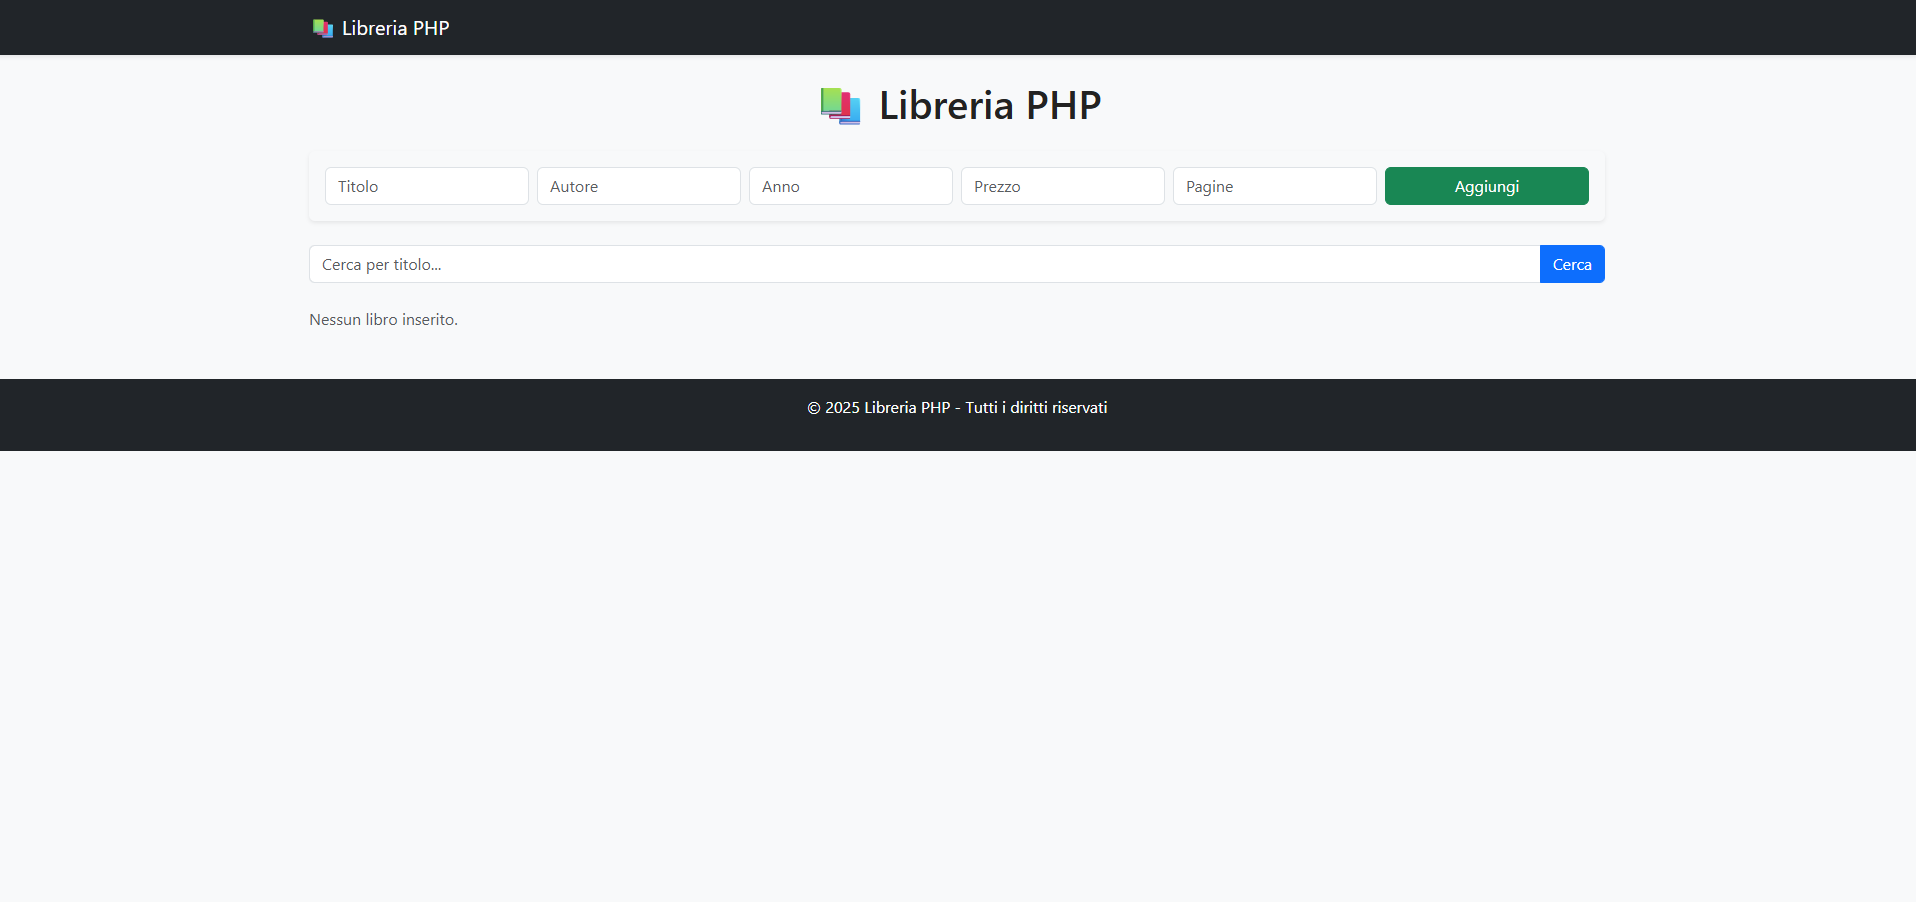
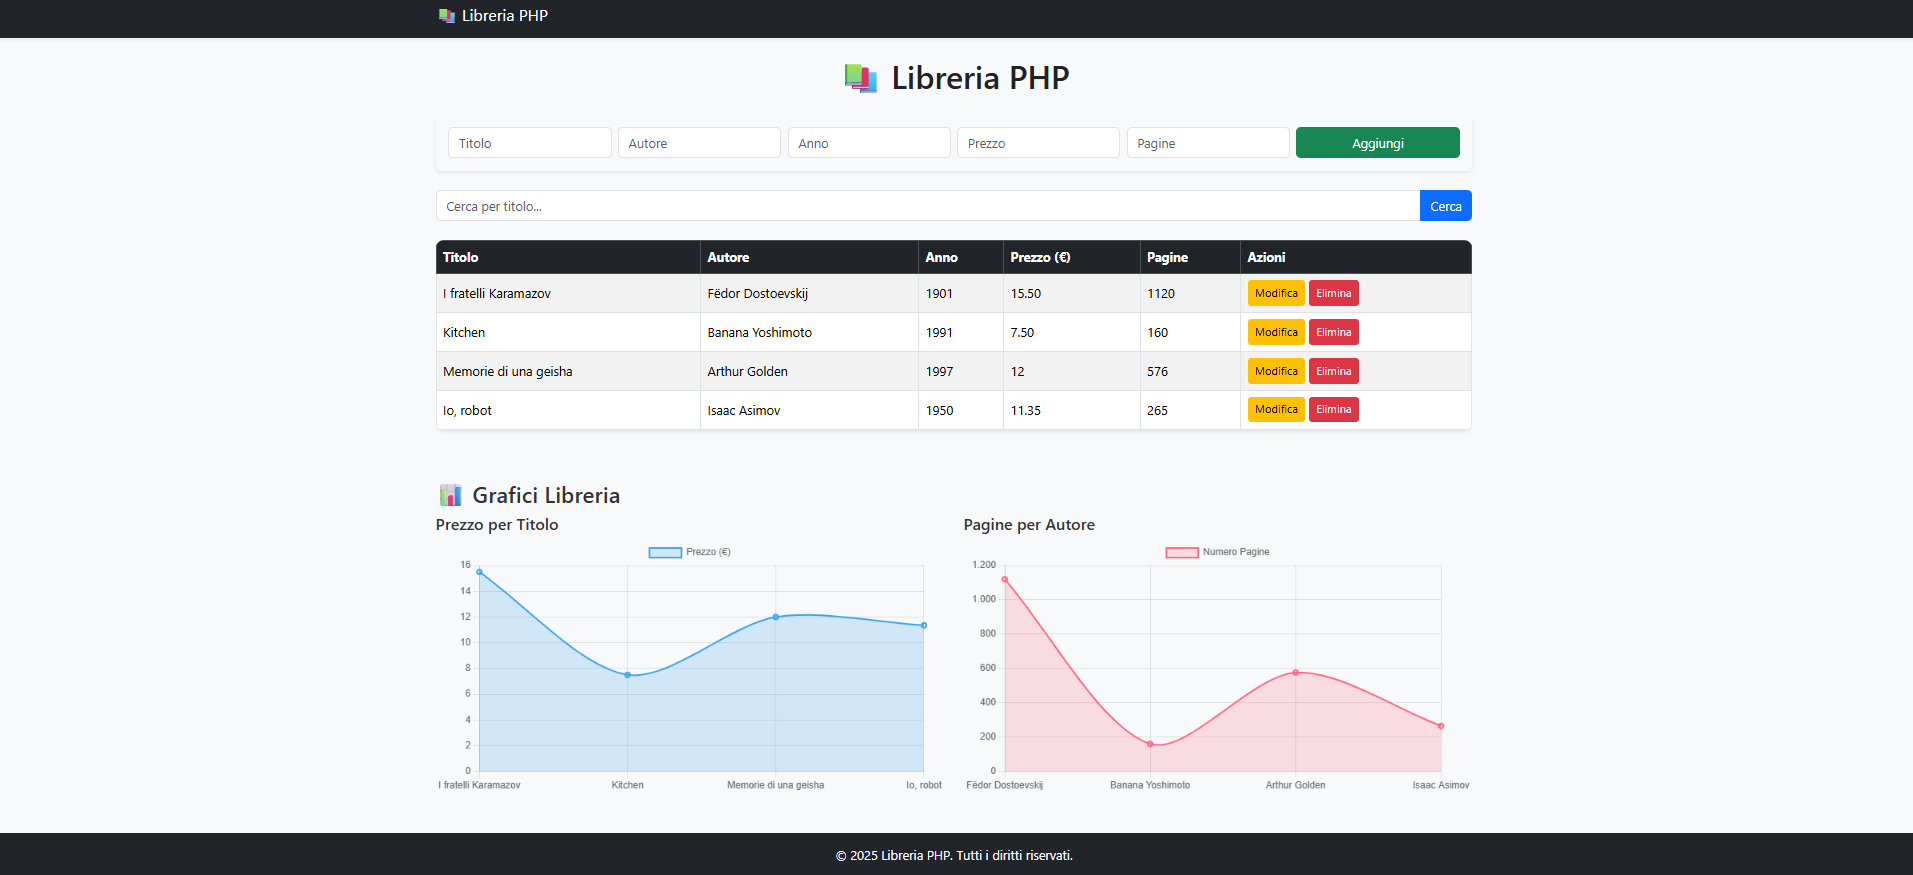
aggiunta funzione editBook

diff --git a/Book.php b/Book.php
@@ -15,4 +15,3 @@ class Book {
     }
 }
 ?>
-

diff --git a/README.md b/README.md
@@ -1,7 +1,7 @@
 # 📚 Libreria PHP
 
 Applicazione PHP per gestire una libreria personale.  
-Permette di **aggiungere**, **visualizzare**, **cercare** **modificare** e **eliminare** libri.  
+Permette di **aggiungere**, **visualizzare**, **cercare**, **modificare** e **eliminare** libri.  
 I dati vengono salvati in **sessione e cookie**.
 
 ---
